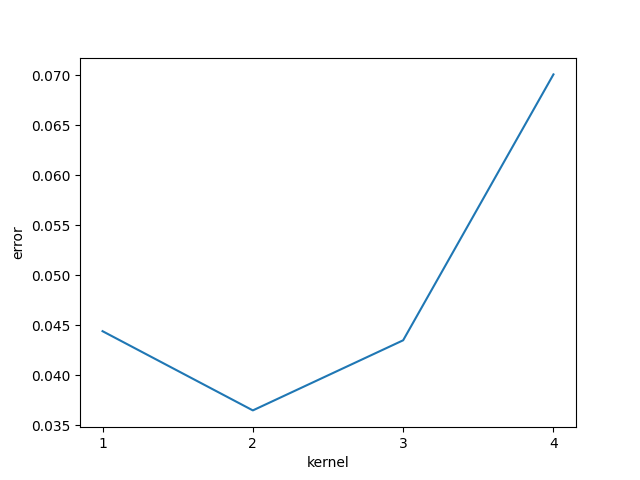
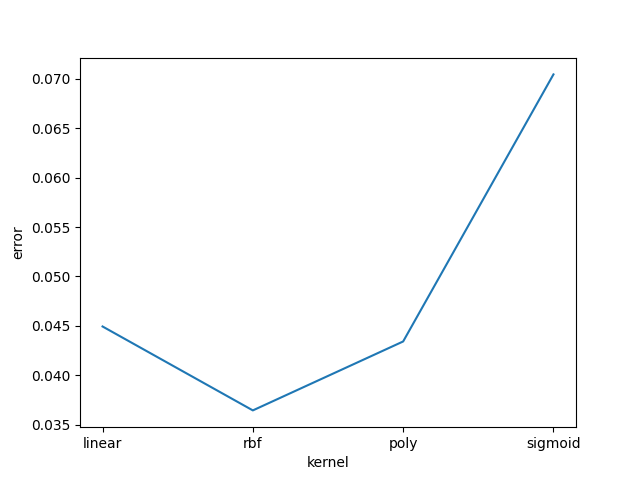
update

diff --git a/SVM.py b/SVM.py
@@ -11,25 +11,28 @@ from sklearn.utils import shuffle
 
 import database as db
 
+
 # train SVM  //rbf>linear>poly>sigmoid
-def SVM_train(X_train, y_train, X_test, y_test,kernel:str):
+def SVM_train(X_train, y_train, X_test, y_test, kernel: str):
     svm = SVC(kernel=kernel)
-    cross_validation(svm, X_train, y_train, 10, 'f1')
+    cross_list = []
+    cross_list = cross_validation(svm, X_train, y_train, 10, 'f1', cross_list)
+    cross_numlist = [i + 1 for i in range(len(cross_list[0]))]
+    plot.draw(cross_numlist, cross_list[0], cross_numlist, 'SVM', f'{kernel}_fold', 'cross_result_f1')
 
     svm.fit(X_train, y_train)
     y_pred = svm.predict(X_test)
     tn, fp, fn, tp = confusion_matrix(y_test, y_pred).ravel()
     FPR = fp / (tn + fp)
-    error_rate = (fp+fn) / (tn + fp + fn + tp)
+    error_rate = (fp + fn) / (tn + fp + fn + tp)
     # return accuracy_score(y_test, y_pred), precision_score(y_test, y_pred), recall_score(y_test, y_pred), f1_score(
     #     y_test, y_pred)
-    return FPR,error_rate
+    return FPR, error_rate, cross_list
 
 
 #
-def svm_fit(X:pandas.DataFrame):
-
-    #X_train, y_train = shuffle(X_train, y_train)
+def svm_fit(X: pandas.DataFrame):
+    # X_train, y_train = shuffle(X_train, y_train)
     X_train, X_test = train_test_split(X, test_size=0.3, train_size=0.7)
 
     y_train = X_train['fraud_bool']
@@ -43,30 +46,30 @@ def svm_fit(X:pandas.DataFrame):
     X_test = scaler.transform(X_test)
 
     kernels = ['linear', 'rbf', 'poly', 'sigmoid']
-    FPR ,error= [],[]
-
+    FPR, error = [], []
 
     for kernel in kernels:
-        fpr,svm_error = SVM_train(X_train, y_train, X_test, y_test, kernel=kernel)
-        print(fpr,svm_error)
+        fpr, svm_error, cross_result = SVM_train(X_train, y_train, X_test, y_test, kernel=kernel)
+        print(fpr, svm_error)
         FPR.append(fpr)
         error.append(svm_error)
     kernel_numlist = [i + 1 for i in range(len(FPR))]
-    plot.draw(kernel_numlist, FPR, 'SVM', 'kernel', 'FPR')
-    plot.draw(kernel_numlist, error, 'SVM', 'kernel', 'error')
+    plot.draw(kernel_numlist, FPR, kernels, 'SVM', 'kernel', 'FPR')
+    plot.draw(kernel_numlist, error, kernels, 'SVM', 'kernel', 'error')
 
-    return FPR,error
-    #accuracy, precision, recall, f1_score = SVM_train(X_train, y_train, X_test, y_test)
+    return FPR, error
+    # accuracy, precision, recall, f1_score = SVM_train(X_train, y_train, X_test, y_test)
 
     # print(
     #     "accuracy:" + str(accuracy) + "\nprecision:" + str(precision) + "\nrecall:" + str(recall) + "\nf1_score:" + str(
     #         f1_score))
 
-def cross_validation(model, x, y,cv,score_type:str):
+
+def cross_validation(model, x, y, cv, score_type: str, cross_result):
     scores = cross_val_score(model, x, y, cv=cv, scoring=score_type)
-    print(scores)
-
-
+    cross_result.append(scores)
+    # print(scores)
+    return cross_result
 
 
 if __name__ == "__main__":
@@ -84,8 +87,4 @@ if __name__ == "__main__":
     scaler = StandardScaler()
     X_train = scaler.fit_transform(X_train)
     X_test = scaler.transform(X_test)
-    print(SVM_train(X_train, y_train, X_test, y_test,'linear'))
-
-
-
-
+    print(SVM_train(X_train, y_train, X_test, y_test, 'linear'))

diff --git a/logistic.py b/logistic.py
@@ -14,7 +14,10 @@ def logistic_regression_train(X_train, y_train, X_test, y_test,solver):
 
     lr = LogisticRegression(solver=solver,max_iter=999)
     #########################################################
-    cross_validation(lr, X_train, y_train,10,'f1')
+    cross_list = []
+    cross_list = cross_validation(lr, X_train, y_train,10,'f1',cross_list)
+    cross_numlist = [i + 1 for i in range(len(cross_list[0]))]
+    plot.draw(cross_numlist, cross_list[0], cross_numlist, 'LR', f'{solver}_fold', 'cross_result_f1')
     #########################################################
 
 
@@ -23,7 +26,7 @@ def logistic_regression_train(X_train, y_train, X_test, y_test,solver):
     tn, fp, fn, tp = confusion_matrix(y_test, y_pred).ravel()
     FPR = fp / (tn + fp)
     error_rate = (fp + fn) / (tn + fp + fn + tp)
-    return FPR, error_rate
+    return FPR, error_rate, cross_list
 
 
 
@@ -44,21 +47,28 @@ def lr_fit(X:pandas.DataFrame):
     FPR, error = [], []
 
     for solver in solvers:
-        fpr, lr_error = logistic_regression_train(X_train, y_train, X_test, y_test, solver=solver)
+        fpr, lr_error, cross_result= logistic_regression_train(X_train, y_train, X_test, y_test, solver=solver)
+
 
         print(fpr, lr_error)
         FPR.append(fpr)
         error.append(lr_error)
     solver_numlist = [i + 1 for i in range(len(FPR))]
-    plot.draw(solver_numlist, FPR, 'LR', 'solver', 'FPR')
-    plot.draw(solver_numlist, error, 'LR', 'solver', 'error')
+    plot.draw(solver_numlist, FPR, solvers,'LR', 'solver', 'FPR')
+    plot.draw(solver_numlist, error, solvers,'LR', 'solver', 'error')
 
     return FPR, error
 
 #########################################################
-def cross_validation(model, x, y,cv,score_type:str):
+def cross_validation(model, x, y,cv,score_type:str,cross_result):
     scores = cross_val_score(model, x, y, cv=cv, scoring=score_type)
-    print(scores)
+    cross_result.append(scores)
+    #print(scores)
+    #cross_num = [i + 1 for i in range(cv)]
+    # print(cross_num)
+    # print(cross_result)
+    # plot.draw(cross_num, cross_result, cross_num, 'LR', 'solver', 'cross_result')
+    return cross_result
 #########################################################
 if __name__ == "__main__":
     '''For testing purpose only'''
